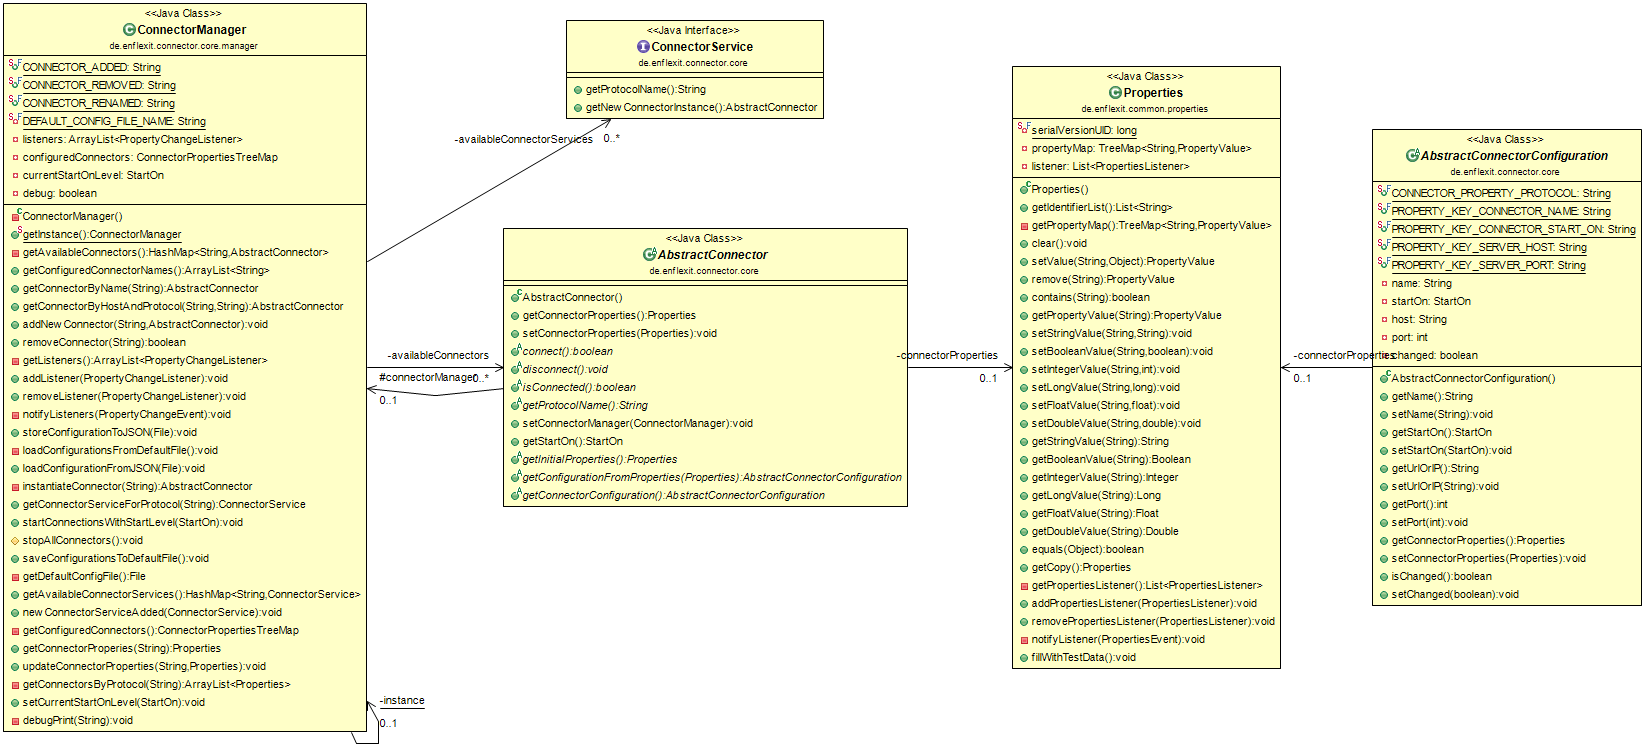
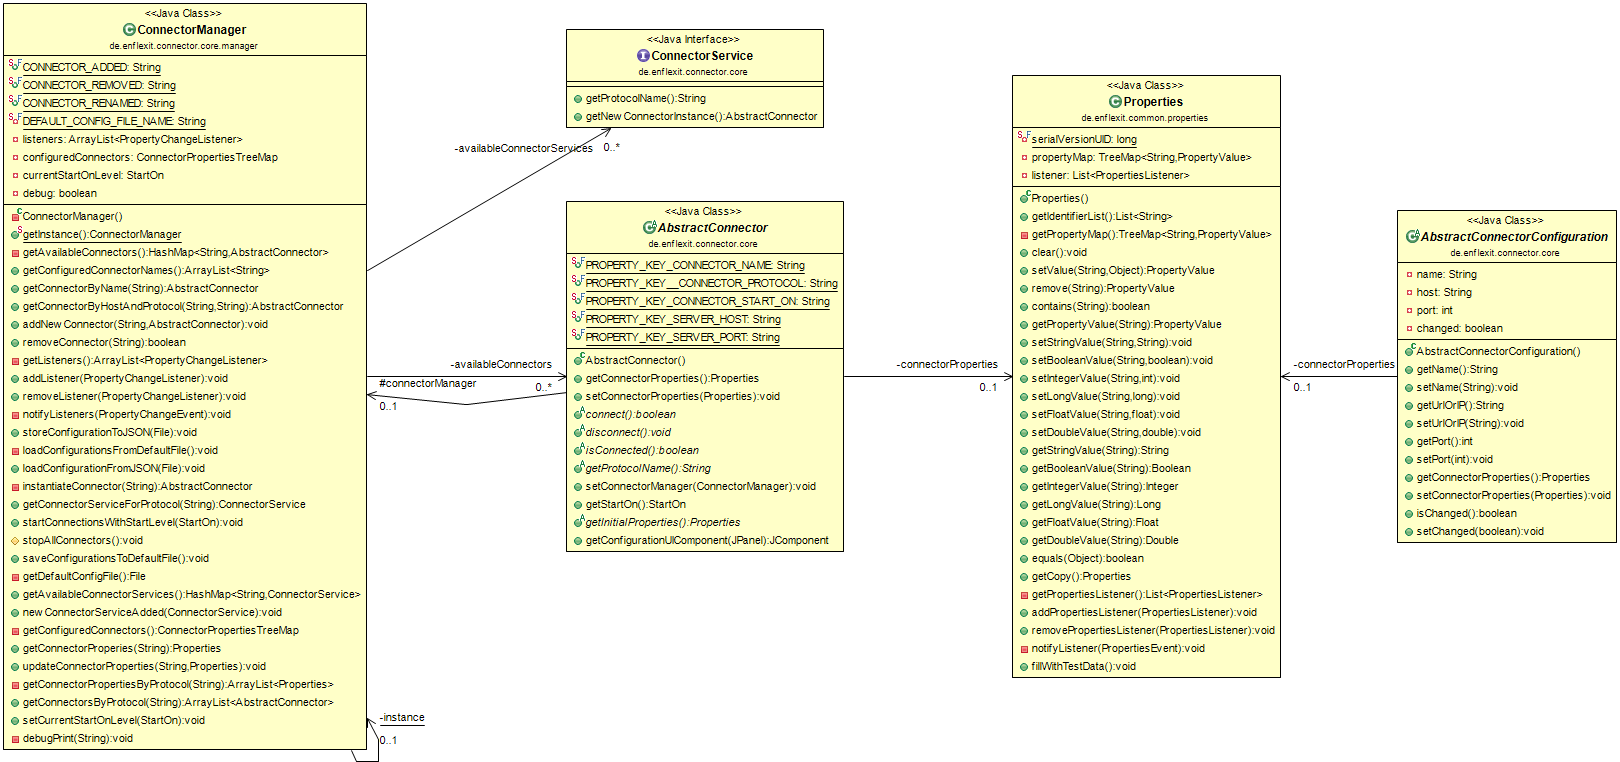
MQTT remote control: Improvements regarding the handling of project properties and establishing connections, added documentation.

Changed region(s): [[0.0, 0.0, 1.0, 1.0], [0.2778, 0.0, 0.5247, 0.2473], [0.2778, 0.2473, 0.3086, 0.2782]]

diff --git a/eclipseProjects/de.enflexit.connector/bundles/de.enflexit.connector.mqtt.awbRemote/src/de/enflexit/connector/mqtt/awbRemote/AwbRemoteControlMQTT.java b/eclipseProjects/de.enflexit.connector/bundles/de.enflexit.connector.mqtt.awbRemote/src/de/enflexit/connector/mqtt/awbRemote/AwbRemoteControlMQTT.java
@@ -2,6 +2,8 @@ package de.enflexit.connector.mqtt.awbRemote;
 
 import java.time.ZonedDateTime;
 import java.time.format.DateTimeFormatter;
+import java.util.ArrayList;
+
 import com.google.gson.Gson;
 import com.google.gson.JsonSyntaxException;
 
@@ -17,6 +19,7 @@ import de.enflexit.awbRemote.jsonCommand.AwbNotification;
 import de.enflexit.awbRemote.jsonCommand.Parameter;
 import de.enflexit.awbRemote.jsonCommand.Parameter.ParamName;
 import de.enflexit.common.properties.Properties;
+import de.enflexit.connector.core.AbstractConnector;
 import de.enflexit.connector.core.manager.ConnectorManager;
 import de.enflexit.connector.mqtt.MQTTConnector;
 import de.enflexit.connector.mqtt.MQTTConnectorConfiguration;
@@ -29,6 +32,7 @@ import de.enflexit.connector.mqtt.MQTTSubscriber;
  */
 public class AwbRemoteControlMQTT extends AwbRemoteControl implements MQTTSubscriber {
 	
+	public static final String PROPERTY_KEY_CONNECTOR_NAME = "mqtt.remoteControl.connectorName";
 	public static final String PROPERTY_KEY_BROKER_HOST = "mqtt.remoteControl.brokerHost";
 	public static final String PROPERTY_KEY_COMMAND_TOPIC = "mqtt.remoteControl.commandTopic";
 	public static final String PROPERTY_KEY_STATUS_TOPIC = "mqtt.remoteControl.statusTopic";
@@ -36,7 +40,6 @@ public class AwbRemoteControlMQTT extends AwbRemoteControl implements MQTTSubscr
 	
 	private static final String DEFAULT_TOPIC_REMOTE_COMMANDS = "awbControl";
 	private static final String DEFAULT_TOPIC_STATUS_UPDATES = "awbStatus";
-	private static final String DEFAULT_BROKER_HOST = "localhost";
 	private static final boolean DEFAULT_CONTROL_STEPS = true;
 
 	private MQTTConnector mqttConnector;
@@ -49,7 +52,6 @@ public class AwbRemoteControlMQTT extends AwbRemoteControl implements MQTTSubscr
 	
 	private String statusTopic;
 	private String commandTopic;
-	private String brokerHost;
 	private Boolean controlSteps;
 	
 	/**
@@ -58,7 +60,7 @@ public class AwbRemoteControlMQTT extends AwbRemoteControl implements MQTTSubscr
 	public AwbRemoteControlMQTT() {
 		Application.addApplicationListener(this);
 		if (this.isControlSteps()==true) {
-			this.getStepController();	// Initialize the step controller
+			this.getStepController().enable();	// Initialize the step controller
 		}
 	}
 
@@ -68,10 +70,7 @@ public class AwbRemoteControlMQTT extends AwbRemoteControl implements MQTTSubscr
 	 */
 	public boolean doConnectorCheck() {
 		if (this.getMqttConnector()==null) {
-			System.err.println("[" + this.getClass().getSimpleName() + "] No configured connector found for protocol " + MQTTConnectorConfiguration.PROTOCOL_NAME + " and host " + this.brokerHost);
-			return false;
-		} else if (this.getMqttConnector().isConnected()==false) {
-			System.err.println("[" + this.getClass().getSimpleName() + "] A connector for protocol " + MQTTConnectorConfiguration.PROTOCOL_NAME + " and host " + this.brokerHost + " was found, but is not connected. Please check your settings!");
+			System.err.println("[" + this.getClass().getSimpleName() + "] No MQTT connector available!");
 			return false;
 		}
 		
@@ -91,9 +90,67 @@ public class AwbRemoteControlMQTT extends AwbRemoteControl implements MQTTSubscr
 	 */
 	private MQTTConnector getMqttConnector() {
 		if (mqttConnector==null) {
-			mqttConnector = (MQTTConnector) ConnectorManager.getInstance().getConnectorByHostAndProtocol(this.getBrokerHost(), MQTTConnectorConfiguration.PROTOCOL_NAME);
+			
+			// --- If a specific connector is configured in the project properties, use that one --
+			AbstractConnector connectorFromProperties = this.getConnectorFromProjectProperties(Application.getProjectFocused());
+			if (connectorFromProperties!=null && connectorFromProperties instanceof MQTTConnector) {
+				mqttConnector = (MQTTConnector) connectorFromProperties;
+				
+				
+			// --- If not, use the first configured MQTT connector by default ---------------------
+			} else {
+				ArrayList<AbstractConnector> mqttConnectors = ConnectorManager.getInstance().getConnectorsByProtocol(MQTTConnectorConfiguration.PROTOCOL_NAME);
+				if (mqttConnectors.size()>0 && mqttConnectors.get(0) instanceof MQTTConnector) {
+					mqttConnector = (MQTTConnector) mqttConnectors.get(0);
+				}
+			}
+			
 		}
+		
+		if (mqttConnector != null && mqttConnector.isConnected()==false) {
+			mqttConnector.connect();
+		}
+		
 		return mqttConnector;
+	}
+	
+	/**
+	 * Gets the connector that is configured in the properties of the provided project. May return null if nothing is configured there.
+	 * @param project the project
+	 * @return the connector, null if not configured in the project properties.
+	 */
+	private MQTTConnector getConnectorFromProjectProperties(Project project) {
+		if (project==null) return null;
+		return this.getConnectorFromProperties(project.getProperties());
+	}
+	
+	/**
+	 * Gets the MQTT connector that is configured in the provided properties. May return null if nothing is configured there.
+	 * @param properties the properties
+	 * @return the connector, null if not configured in the properties.
+	 */
+	private MQTTConnector getConnectorFromProperties(Properties properties) {
+		
+		// --- If a connector name is configured in the properties, use the corresponding connector
+		String connectorNameFromProperties = properties.getStringValue(PROPERTY_KEY_CONNECTOR_NAME);
+		if (connectorNameFromProperties!=null && connectorNameFromProperties.isEmpty()==false) {
+			AbstractConnector connector = ConnectorManager.getInstance().getConnectorByName(connectorNameFromProperties);
+			if (connector!=null && connector instanceof MQTTConnector) {
+				return (MQTTConnector) connector;
+			}
+		}
+		
+		// --- If a broker host is configured in the properties, use an MQTT connector from that host
+		String brokerHostFromProperties = properties.getStringValue(PROPERTY_KEY_BROKER_HOST);
+		if (brokerHostFromProperties!=null && brokerHostFromProperties.isEmpty()==false) {
+			AbstractConnector connector = ConnectorManager.getInstance().getConnectorByHostAndProtocol(brokerHostFromProperties, MQTTConnectorConfiguration.PROTOCOL_NAME);
+			if (connector!=null && connector instanceof MQTTConnector) {
+				return (MQTTConnector) connector;
+			}
+		}
+		
+		// --- Nothing configured -------------------------
+		return null;
 	}
 	
 	/**
@@ -327,20 +384,6 @@ public class AwbRemoteControlMQTT extends AwbRemoteControl implements MQTTSubscr
 		}
 		return controlSteps;
 	}
-
-
-	private String getBrokerHost() {
-		if (brokerHost==null) {
-			String hostFromProperties  = null;
-			Project projectFocused = Application.getProjectFocused();
-			if (projectFocused!=null) {
-				Properties projectProperties = Application.getProjectFocused().getProperties();
-				hostFromProperties = projectProperties.getStringValue(PROPERTY_KEY_BROKER_HOST);
-			}
-			brokerHost = (hostFromProperties!=null) ? hostFromProperties : DEFAULT_BROKER_HOST;
-		}
-		return brokerHost;
-	}
 	
 	/* (non-Javadoc)
 	 * @see de.enflexit.awb.remoteControl.AwbRemoteControl#onApplicationEvent(agentgui.core.application.ApplicationListener.ApplicationEvent)
@@ -348,42 +391,57 @@ public class AwbRemoteControlMQTT extends AwbRemoteControl implements MQTTSubscr
 	@Override
 	public void onApplicationEvent(ApplicationEvent ae) {
 		if (ae.getApplicationEvent()==ApplicationEvent.PROJECT_FOCUSED) {
-			this.applyRemoteControlSettingsFromProject();
+			
+			if (Application.getProjectFocused()!=null) {
+				this.applyConfigurationFromProjectProperties(Application.getProjectFocused().getProperties());
+			}
 		}
 		super.onApplicationEvent(ae);
 	}
 	
-	private void applyRemoteControlSettingsFromProject() {
+	private void applyConfigurationFromProjectProperties(Properties properties) {
 		
-		// --- Check if remote control settings are specified in the project properties -----------
-		Project projectFocused = Application.getProjectFocused();
-		if (projectFocused!=null) {
-			Properties projectProperties = Application.getProjectFocused().getProperties();
-			String brokerHostFromProperties = projectProperties.getStringValue(PROPERTY_KEY_BROKER_HOST);
-			if (brokerHostFromProperties!=null && brokerHostFromProperties.equals(this.brokerHost)==false) {
-				this.brokerHost = brokerHostFromProperties;
-				this.getMqttConnector().getConnectorConfiguration().setUrlOrIP(brokerHostFromProperties);
-				if (this.getMqttConnector().isConnected()==true) {
-					this.getMqttConnector().disconnect();
-					this.getMqttConnector().connect();
-				}
+		if (properties==null) return;
+		
+		String commandTopicFromProperties = properties.getStringValue(PROPERTY_KEY_COMMAND_TOPIC);
+		if (commandTopicFromProperties!=null && commandTopicFromProperties.isBlank()==false) {
+			if (commandTopicFromProperties.equals(this.commandTopic)==false) {
+				this.getMqttConnector().unsubscribe(this.getCommandTopic(), this);
+				this.commandTopic = commandTopicFromProperties;
+				this.getMqttConnector().subscribe(this.getCommandTopic(), this);
 			}
-			String commandsTopicFromProperties = projectProperties.getStringValue(PROPERTY_KEY_COMMAND_TOPIC);
-			if (commandsTopicFromProperties!=null) {
-				this.commandTopic = commandsTopicFromProperties;
+		}
+		
+		String statusTopicFromProperties = properties.getStringValue(PROPERTY_KEY_STATUS_TOPIC);
+		if (statusTopicFromProperties!=null && statusTopicFromProperties.isBlank()==false) {
+			this.statusTopic = statusTopicFromProperties;
+		}
+		
+		Boolean controlStepsFromProperties = properties.getBooleanValue(PROPERTY_KEY_CONTROL_STEPS);
+		if (controlStepsFromProperties!=null && controlStepsFromProperties!=this.controlSteps) {
+			this.controlSteps = controlStepsFromProperties;
+			if (this.controlSteps==true) {
+				this.getStepController().enable();
+			} else {
+				this.getStepController().disable();
 			}
-			String statusTopicFromProperties = projectProperties.getStringValue(PROPERTY_KEY_STATUS_TOPIC);
-			if (statusTopicFromProperties!=null) {
-				this.statusTopic = statusTopicFromProperties;
-			}
-			Boolean controlStepsFromProperties = projectProperties.getBooleanValue(PROPERTY_KEY_CONTROL_STEPS);
-			if (controlStepsFromProperties!=null) {
-				this.controlSteps = controlStepsFromProperties;
-			}
-			
+		}
+		
+		MQTTConnector connectorFromProject = this.getConnectorFromProperties(properties);
+		
+		if (connectorFromProject!=null && connectorFromProject!=this.mqttConnector) {
+			System.out.println("[" + this.getClass().getSimpleName() + "] A different connector was configured in the project properties, switching to that one.");
+			this.getMqttConnector().unsubscribe(this.getCommandTopic(), this);
+			this.mqttConnector = connectorFromProject;
+			this.getMqttConnector().subscribe(this.getCommandTopic(), this);
+			this.setAwbState(AwbState.AWB_READY);
+		} else if (connectorFromProject!=null && connectorFromProject==this.mqttConnector) {
+			System.out.println("[" + this.getClass().getSimpleName() + "] A connector was configured in the project properties, but it is already active.");
+		} else {
+			System.out.println("[" + this.getClass().getSimpleName() + "] No connector was configured in the project properties.");
 		}
 	}
-
+	
 	/**
 	 * Inner class for handling discrete simulation steps.
 	 * @author Nils Loose - SOFTEC - Paluno - University of Duisburg-Essen
@@ -408,5 +466,6 @@ public class AwbRemoteControlMQTT extends AwbRemoteControl implements MQTTSubscr
 		
 	}
 	
-		
+	
+
 }

diff --git a/eclipseProjects/de.enflexit.connector/bundles/de.enflexit.connector.core/src/de/enflexit/connector/core/manager/ConnectorManager.java b/eclipseProjects/de.enflexit.connector/bundles/de.enflexit.connector.core/src/de/enflexit/connector/core/manager/ConnectorManager.java
@@ -324,7 +324,7 @@ public class ConnectorManager {
 		this.debugPrint("A new connector service for " + connectorService.getProtocolName() + " was added.");
 		this.debugPrint("Current startlevel is " + this.currentStartOnLevel);
 		
-		ArrayList<Properties> connectorsForProtocol = this.getConnectorsByProtocol(connectorService.getProtocolName());
+		ArrayList<Properties> connectorsForProtocol = this.getConnectorPropertiesByProtocol(connectorService.getProtocolName());
 		for (Properties connProperties : connectorsForProtocol) {
 			
 			String conectorName = connProperties.getStringValue(AbstractConnector.PROPERTY_KEY_CONNECTOR_NAME);
@@ -378,7 +378,7 @@ public class ConnectorManager {
 	 * @param protocolName the protocol name
 	 * @return the connectors by protocol
 	 */
-	private ArrayList<Properties> getConnectorsByProtocol(String protocolName){
+	private ArrayList<Properties> getConnectorPropertiesByProtocol(String protocolName){
 		ArrayList<Properties> foundConnectors = new ArrayList<>();
 		for (Properties connectorProperties : this.getConfiguredConnectors().values()) {
 			if (connectorProperties.getStringValue(AbstractConnector.PROPERTY_KEY__CONNECTOR_PROTOCOL).equals(protocolName)) {
@@ -386,6 +386,22 @@ public class ConnectorManager {
 			}
 		}
 		return foundConnectors;
+	}
+	
+	/**
+	 * Gets all available connectors for the specified protocol.
+	 * @param protocolName the protocol name
+	 * @return the connectors by protocol
+	 */
+	public ArrayList<AbstractConnector> getConnectorsByProtocol(String protocolName){
+		ArrayList<AbstractConnector> connectorsList = new ArrayList<>();
+		
+		for (AbstractConnector connector : this.getAvailableConnectors().values()) {
+			if (connector.getProtocolName().equals(protocolName)) {
+				connectorsList.add(connector);
+			}
+		}
+		return connectorsList;
 	}
 
 	/**

diff --git a/eclipseProjects/de.enflexit.connector/bundles/de.enflexit.connector.mqtt/src/de/enflexit/connector/mqtt/MQTTConnector.java b/eclipseProjects/de.enflexit.connector/bundles/de.enflexit.connector.mqtt/src/de/enflexit/connector/mqtt/MQTTConnector.java
@@ -38,7 +38,7 @@ public class MQTTConnector extends AbstractConnector {
 	private HashMap<String, MQTTSubscription> activeSubscriptions;
 	
 	private MQTTConnectorConfiguration connectorConfiguration;
-
+	
 	/**
 	 * Gets the MQTT client instance.
 	 * @return the client
@@ -76,19 +76,22 @@ public class MQTTConnector extends AbstractConnector {
 	 */
 	@Override
 	public boolean connect() {
+		
+		boolean success = false;
 		try {
 			switch (this.getConnectorConfiguration().getMqttVersion()) {
 			case MQTT_3_1_1:
-				return this.connectV3();
+				success = this.connectV3();
 			case MQTT_5_0:
-				return this.connectV5();
+				success = this.connectV5();
 			default:
 				return false;
 			}
 		} catch (ConnectionFailedException cfe) {
 			System.err.println("[" + this.getClass().getSimpleName() + "] Connection failed: " + cfe.getMessage() + " (Exception)");
-			return false;
 		}
+		
+		return success;
 		
 	}
 	
@@ -161,6 +164,7 @@ public class MQTTConnector extends AbstractConnector {
 			clientV5.disconnect();
 			break;
 		}
+		
 	}
 	
 	/**
@@ -214,6 +218,10 @@ public class MQTTConnector extends AbstractConnector {
 		
 	}
 	
+	/**
+	 * Starts a subscription to the configured broker.
+	 * @param subscription the subscription
+	 */
 	private void startSubscription(MQTTSubscription subscription) {
 		switch (this.getConnectorConfiguration().getMqttVersion()) {
 		case MQTT_3_1_1:

diff --git a/eclipseProjects/de.enflexit.connector/bundles/de.enflexit.connector.core/src/de/enflexit/connector/core/AbstractConnector.java b/eclipseProjects/de.enflexit.connector/bundles/de.enflexit.connector.core/src/de/enflexit/connector/core/AbstractConnector.java
@@ -99,9 +99,6 @@ public abstract class AbstractConnector {
 	 */
 	public abstract Properties getInitialProperties();
 	
-//	public abstract AbstractConnectorConfiguration getConfigurationFromProperties(Properties properties);
-//
-//	public abstract AbstractConnectorConfiguration getConnectorConfiguration();
 	
 	/**
 	 * Gets the configuration UI component. This default implementation just returns the base panel for editing 
